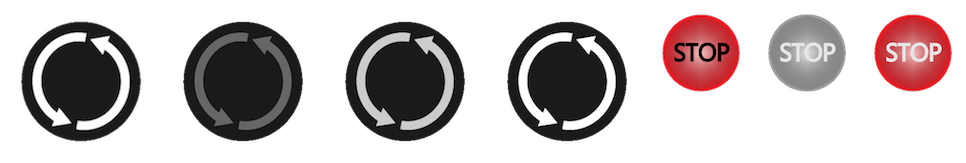
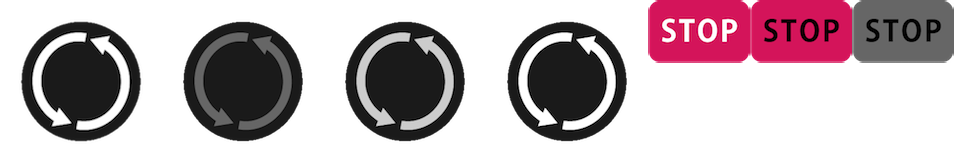
Set validation check

Changed region(s): [[0.5168, 0.0, 1.0, 0.8896], [0.1824, 0.1227, 0.4864, 0.8896], [0.0304, 0.1227, 0.152, 0.8589]]

diff --git a/js/init.js b/js/init.js
@@ -156,15 +156,13 @@ function play(data) {
     sound.play();
 
     playBtn.selected(true);
-    totalBetMoney.text = totalBetMoney.text - betMoney.text;
-    var testNumber;
-    testNumber = parseInt(totalBetMoney.text);
-
-    if (testNumber == 990) {
-        console.log("totalBetMoney equls 500");
+    if (totalBetMoney.text - betMoney.text >= 0 && betMoney.text > 0) {
+        totalBetMoney.text = totalBetMoney.text - betMoney.text;
     } else {
-        console.log("totalBetMoney not equls 500");
+        playBtn.enabled(true);
+        return;
     }
+
 	for (var n = 0; n < max; n++) {
 		var stopBtn = stopBtns[n];
 		stopBtn.enabled(true);
@@ -282,17 +280,10 @@ function setup() {
 		"btn_disabled" : PIXI.Texture.fromFrame("start_button_2.png"), 
 	};
 	var textures_stop = {
-		"btn_up" : PIXI.Texture.fromFrame("stop_btn_3.png"), 
-		"btn_over" : PIXI.Texture.fromFrame("stop_btn_1.png"), 
-		"btn_selected" : PIXI.Texture.fromFrame("stop_btn_4.png"), 
-		"btn_disabled" : PIXI.Texture.fromFrame("stop_btn_2.png")
-	};
-
-	var buttonSample = {
-		"btn1" : PIXI.Texture.fromFrame("stop_btn_3.png"), 
-		"btn2" : PIXI.Texture.fromFrame("stop_btn_3.png"),
-		"btn3" : PIXI.Texture.fromFrame("stop_btn_3.png"),
-		"btn4" : PIXI.Texture.fromFrame("stop_btn_3.png"),
+		"btn_up" : PIXI.Texture.fromFrame("stop_button_1.png"), 
+		"btn_over" : PIXI.Texture.fromFrame("stop_button_2.png"), 
+		"btn_selected" : PIXI.Texture.fromFrame("stop_button_4.png"), 
+		"btn_disabled" : PIXI.Texture.fromFrame("stop_button_3.png")
 	};
 
 	stopBtns = [];
@@ -302,8 +293,8 @@ function setup() {
 		stopBtn.id = n;
 		// content.position.x = 120 + 150*n;
 		// content.position.y = 300;
-		stopBtn.position.x = 130 + 150*n;
-		stopBtn.position.y = 380;
+		stopBtn.position.x = 125 + 150*n;
+		stopBtn.position.y = 383;
 		stopBtn.click = stopBtn.touchstart = stop;
 		stopBtn.enabled(false);
 		stopBtns.push(stopBtn);
@@ -312,8 +303,9 @@ function setup() {
 	playBtn = new Button(textures_play);
 	front.addChild(playBtn);
 	playBtn.position.x = 270;
-	playBtn.position.y = 460;
-	playBtn.click = playBtn.touchstart = play;
+    playBtn.position.y = 460;
+
+    playBtn.click = playBtn.touchstart = play;
 	// console.log("play btn clicked!");
 
 
@@ -330,8 +322,8 @@ function setup() {
 	plusBtn.height = 30;
 	front.addChild(plusBtn);
 	plusBtn.interactive = true;
-	plusBtn.buttonMode = true;
-	plusBtn.on('pointerdown', addOneHero);
+    plusBtn.buttonMode = true;
+    plusBtn.on('pointerdown', addOneHero);
 
 	minusBtn.x = 10;
 	minusBtn.y = 550;
@@ -339,9 +331,13 @@ function setup() {
 	minusBtn.height = 30;
 	front.addChild(minusBtn);
 	minusBtn.interactive = true;
-	minusBtn.buttonMode = true;
-	minusBtn.on('pointerdown', minusCoin);
-
+    minusBtn.buttonMode = true;
+    var ccc = parseInt(betMoney.text);
+    if (ccc < 10) {
+        minusBtn.enabled(true);
+        return;
+    }
+    minusBtn.on('pointerdown', minusCoin);
 }
 
 function background() {
@@ -394,9 +390,14 @@ function addOneHero () {
     console.log("it is true");
     console.log(typeof(betMoney.text));
     var a;
+    var b;
     a = parseInt(betMoney.text);
-    console.log(typeof(a));
-    betMoney.text = a + 10;
+    b = parseInt(totalBetMoney.text);
+
+    if (a <= b) {
+        betMoney.text = a + 10;
+    }
+
 	// heroBetCounterNumber.text++;
 	// totalBets.text++;
 	// console.log(totalBets.text);
@@ -419,11 +420,15 @@ function addOneHero () {
 function minusCoin() {
     sound5.play();
     console.log("it is true");
-    console.log(typeof(betMoney.text));
     var a;
     a = parseInt(betMoney.text);
-    console.log(typeof(a));
-    betMoney.text = a - 10;
+    if (betMoney.text > 0) {
+        betMoney.text = a - 10;
+    } else {
+        playBtn.enabled(true);
+        return;
+    }
+
 	// heroBetCounterNumber.text++;
 	// totalBets.text++;
 	// console.log(totalBets.text);
